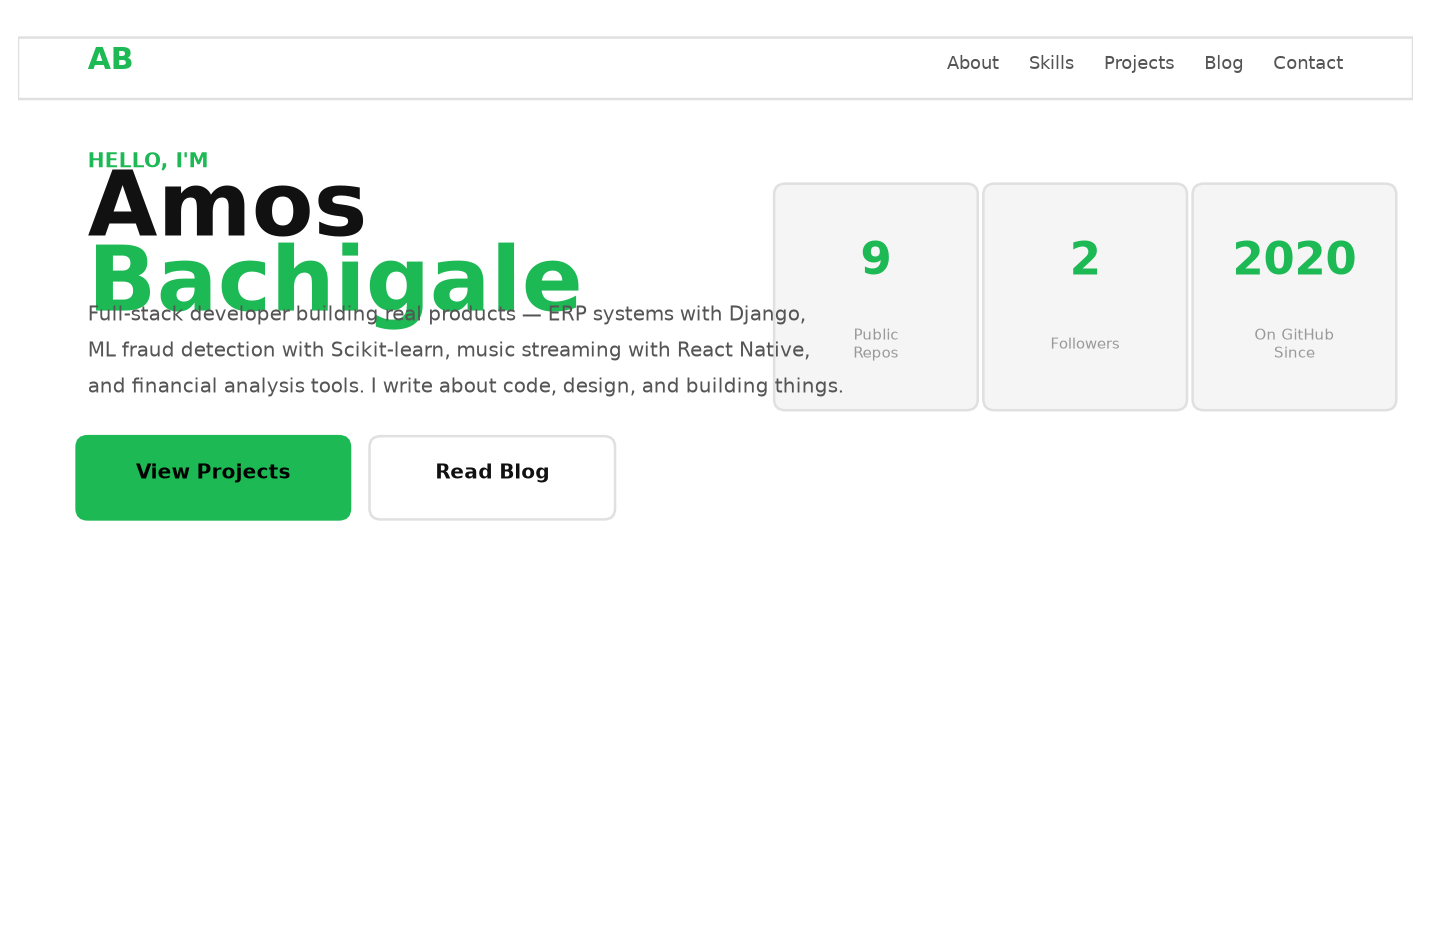
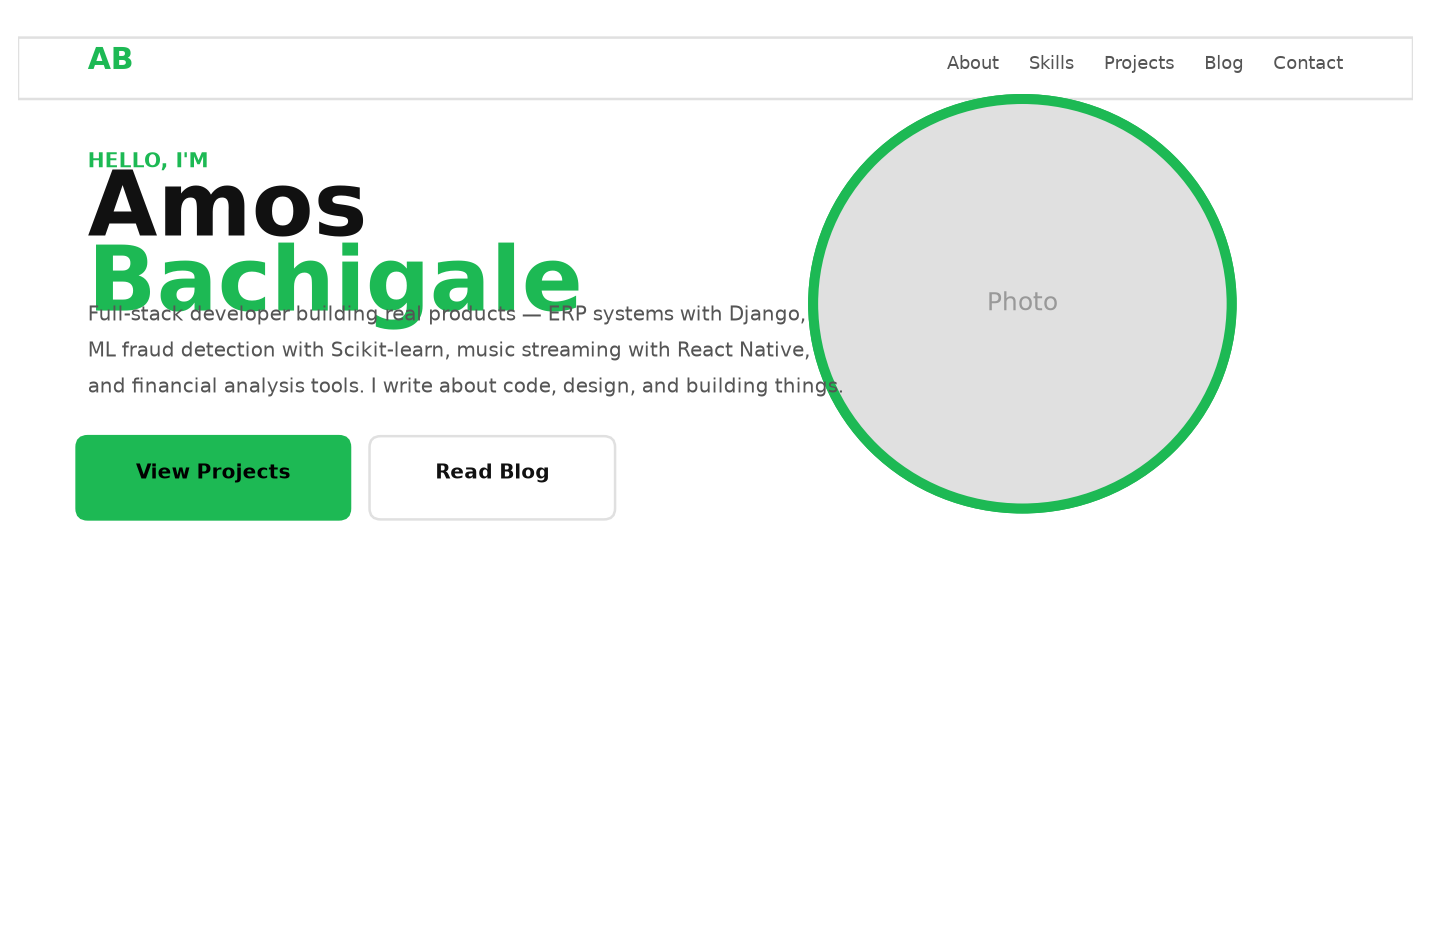
feat: add profile photo to hero section

diff --git a/index.html b/index.html
@@ -59,11 +59,18 @@
       display: flex; align-items: center;
       padding-top: 56px;
     }
-    .hero-content { max-width: 640px; }
+    .hero .container { display: flex; align-items: center; justify-content: space-between; gap: 60px; }
+    .hero-content { flex: 1; max-width: 560px; }
     .hero-greeting { color: var(--accent); font-size: 14px; font-weight: 600; letter-spacing: 1px; text-transform: uppercase; margin-bottom: 16px; }
     .hero h1 { font-size: clamp(36px, 6vw, 64px); font-weight: 800; line-height: 1.1; margin-bottom: 20px; letter-spacing: -1.5px; }
     .hero h1 span { color: var(--accent); }
     .hero p { color: var(--text2); font-size: 18px; max-width: 520px; margin-bottom: 32px; }
+    .hero-photo {
+      flex-shrink: 0; width: 320px; height: 320px;
+      border-radius: 50%; object-fit: cover;
+      border: 4px solid var(--accent);
+      box-shadow: 0 0 60px rgba(29,185,84,0.15);
+    }
     .hero-cta { display: flex; gap: 16px; flex-wrap: wrap; }
     .btn {
       display: inline-flex; align-items: center; gap: 8px;
@@ -171,7 +178,11 @@
       .about-grid { grid-template-columns: 1fr; gap: 32px; }
       .about-stats { grid-template-columns: repeat(3, 1fr); }
       nav .links { gap: 16px; }
+      .hero .container { flex-direction: column-reverse; text-align: center; gap: 30px; }
       .hero { padding-top: 80px; }
+      .hero p { margin-left: auto; margin-right: auto; }
+      .hero-cta { justify-content: center; }
+      .hero-photo { width: 200px; height: 200px; }
       section { padding: 60px 0; }
     }
     @media (max-width: 480px) {
@@ -206,6 +217,7 @@
           <a href="/portfolio/blog/" class="btn btn-outline">Read Blog</a>
         </div>
       </div>
+      <img src="/portfolio/assets/photo.png" alt="Amos Bachigale" class="hero-photo">
     </div>
   </section>
 
